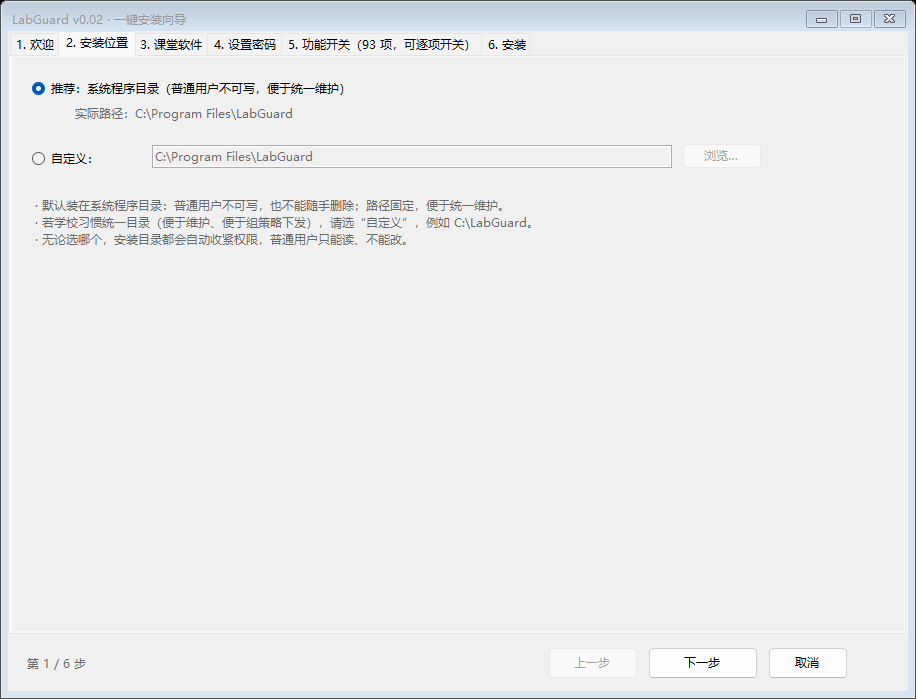
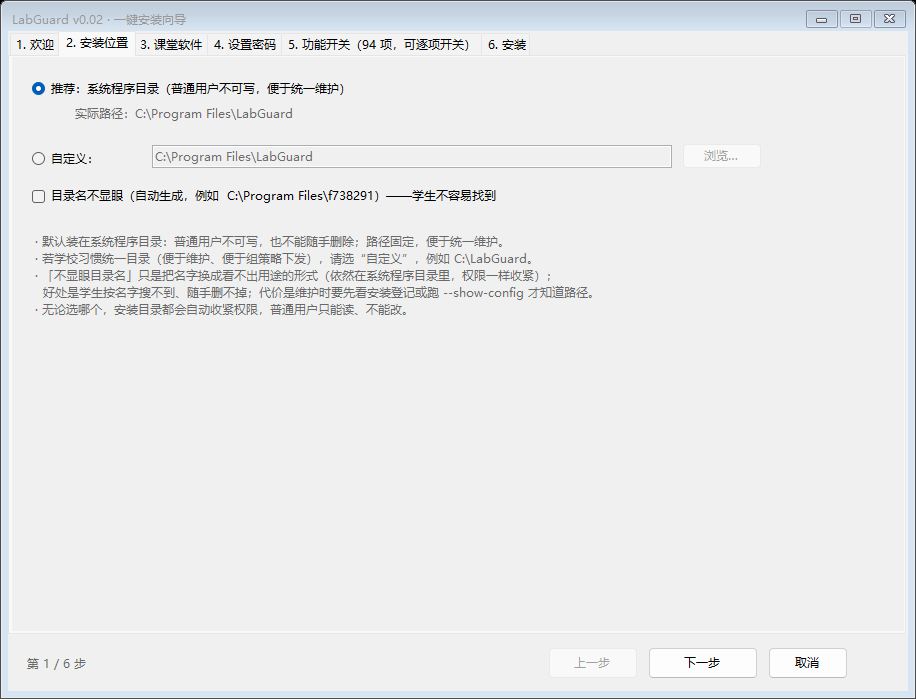
feat(installer): optional unobtrusive install-directory name (P4, off by default)
Adds a wizard checkbox and an unattended --disguise-dir flag that install into the system program directory under a generated name (e.g. f738291) instead of 'LabGuard', so students cannot find and delete it by name. ACL hardening is unchanged (same Program Files location). Off by default: readability and uniform maintenance stay the default, hiding is the teacher's explicit choice.

Wizard page 2 screenshot regenerated.

Changed region(s): [[0.0306, 0.2704, 0.6419, 0.4506]]

diff --git a/src/LabGuard.Installer/InstallerForm.cs b/src/LabGuard.Installer/InstallerForm.cs
@@ -164,12 +164,36 @@ namespace LabGuard.Installer
             };
             var hint = new Label
             {
-                Left = 20, Top = 140, Width = 800, Height = 90, ForeColor = Color.DimGray,
+                Left = 20, Top = 176, Width = 800, Height = 90, ForeColor = Color.DimGray,
                 Text = "· 默认装在系统程序目录：普通用户不可写，也不能随手删除；路径固定，便于统一维护。\n" +
                        "· 若学校习惯统一目录（便于维护、便于组策略下发），请选“自定义”，例如 C:\\LabGuard。\n" +
+                       "· 「不显眼目录名」只是把名字换成看不出用途的形式（依然在系统程序目录里，权限一样收紧）；\n" +
+                       "  好处是学生按名字搜不到、随手删不掉；代价是维护时要先看安装登记或跑 --show-config 才知道路径。\n" +
                        "· 无论选哪个，安装目录都会自动收紧权限，普通用户只能读、不能改。"
             };
-            page.Controls.AddRange(new Control[] { _dirDefault, lblDef, _dirCustom, _dir, browse, hint });
+
+            // 可选：不显眼目录名（默认关；勾上就切到"自定义"并把路径换成自动生成的名字）
+            var disguise = new CheckBox
+            {
+                Text = "目录名不显眼（自动生成，例如  C:\\Program Files\\f738291）——学生不容易找到",
+                Left = 20, Top = 128, Width = 800, Height = 24
+            };
+            disguise.CheckedChanged += (s, e) =>
+            {
+                if (disguise.Checked)
+                {
+                    string hidden = InstallEngine.DisguisedInstallDir();
+                    if (string.IsNullOrEmpty(hidden)) { disguise.Checked = false; return; }
+                    _dirCustom.Checked = true;      // 走"自定义"分支，安装时用下面这个路径
+                    _dir.Text = hidden;
+                }
+                else
+                {
+                    _dirCustom.Checked = false;     // 取消勾选 → 回到默认目录
+                }
+            };
+
+            page.Controls.AddRange(new Control[] { _dirDefault, lblDef, _dirCustom, _dir, browse, disguise, hint });
             return page;
         }
 

diff --git a/src/LabGuard.Installer/Program.cs b/src/LabGuard.Installer/Program.cs
@@ -95,7 +95,12 @@ namespace LabGuard.Installer
             string dns = Value(args, "--dns");
             string classroom = Value(args, "--classroom");
 
-            if (string.IsNullOrEmpty(dir)) dir = InstallEngine.DefaultInstallDir();
+            if (string.IsNullOrEmpty(dir))
+            {
+                dir = Has(args, "--disguise-dir")
+                    ? (InstallEngine.DisguisedInstallDir() ?? InstallEngine.DefaultInstallDir())
+                    : InstallEngine.DefaultInstallDir();
+            }
             GuardConfig config;
             if (!string.IsNullOrEmpty(configJson) && File.Exists(configJson))
             {
@@ -172,6 +177,7 @@ namespace LabGuard.Installer
     --silent            静默安装（不开向导；需要 --password）
     --dry-run           预演：只打印将执行的步骤，不改系统
             --install-dir <路径>  安装目录（默认 C:\Program Files\LabGuard）
+    --disguise-dir      安装目录名不显眼（自动生成，如 C:\Program Files\f738291；未指定 --install-dir 时生效）
     --password <密码>     小助手密码（6 位及以上字母数字）
     --config <json>     套用预设配置（presets\ 目录下自带两份）
     --dns <IP>          集中 DNS（可选；填了才做 DNS 锁定）

diff --git a/src/LabGuard.Installer/InstallEngine.cs b/src/LabGuard.Installer/InstallEngine.cs
@@ -80,6 +80,23 @@ namespace LabGuard.Installer
             return @"C:\LabGuard";
         }
 
+        /// <summary>
+        /// "不显眼"的安装目录（可选）：仍然装在系统程序目录下（保留普通用户不可写的 ACL 优势），
+        /// 但目录名换成看不出用途的形式，学生不容易按名字搜到、随手删掉。
+        /// 返回 null 表示取不到程序目录（调用方应退回 DefaultInstallDir()）。
+        /// </summary>
+        public static string DisguisedInstallDir()
+        {
+            try
+            {
+                string programFiles = Environment.GetFolderPath(Environment.SpecialFolder.ProgramFiles);
+                if (string.IsNullOrEmpty(programFiles)) return null;
+                var rnd = new Random();
+                return Path.Combine(programFiles, "f" + rnd.Next(100000, 999999));
+            }
+            catch { return null; }
+        }
+
         public void Install()
         {
             Say("=== 开始安装 ===");

diff --git a/CHANGELOG.md b/CHANGELOG.md
@@ -1,5 +1,14 @@
 # 更新记录
 
+## 未发布 · P4（可选）：安装目录名"不显眼"
+
+- 安装向导第 2 步新增**可选**勾选框「目录名不显眼（自动生成，例如 `C:\Program Files\f738291`）」，**默认不勾**。
+  勾上后：仍装在系统程序目录里（保留"普通用户不可写"的 ACL 优势），只是把目录名换成看不出用途的形式，
+  学生不容易按名字搜到、随手删掉；维护时用安装登记或 `--show-config` 查路径。
+- 无人值守新增参数 `--disguise-dir`（未显式给 `--install-dir` 时生效）。
+- 取舍说明：原版是把目录名做成"内存大小拼接"的隐式名；我们保留"可读性"作为默认，
+  把"藏起来"做成**老师自己的选择**，而不是默认行为。
+
 ## 未发布 · P3：注册表权限加固升级（含"连管理员也只读"的只读锁定）
 
 1. **默认加固键增加课堂软件自己的键**：除 `HKLM\SOFTWARE\LabGuard`，再加

diff --git a/README.md b/README.md
@@ -58,7 +58,7 @@
 | 向导步骤 | 你要做的事 |
 |---|---|
 | 1. 欢迎 | 看一遍它会做什么（含"不卸杀毒、不改 UAC、不劫持主页"），勾选"我已阅读并了解" |
-| 2. 安装位置 | 默认 `C:\Program Files\LabGuard`（普通用户不可写、不可随手删）；也可自定义 |
+| 2. 安装位置 | 默认 `C:\Program Files\LabGuard`（普通用户不可写、不可随手删）；也可自定义；还有**可选**的「目录名不显眼」（自动生成如 `f738291`，学生不易搜到） |
 | 3. 设置密码 | 输两遍；6 位及以上字母数字，弱口令会被拒绝 |
 | 3. **课堂软件** | 点【自动识别】查找极域 / 红蜘蛛 / 锐捷云课堂等学生端；**识别不到就手动填写或浏览选择**（留空也行，运行时会再自动探测） |
 | 4. 设置密码 | 输两遍，6 位以上字母数字 |
